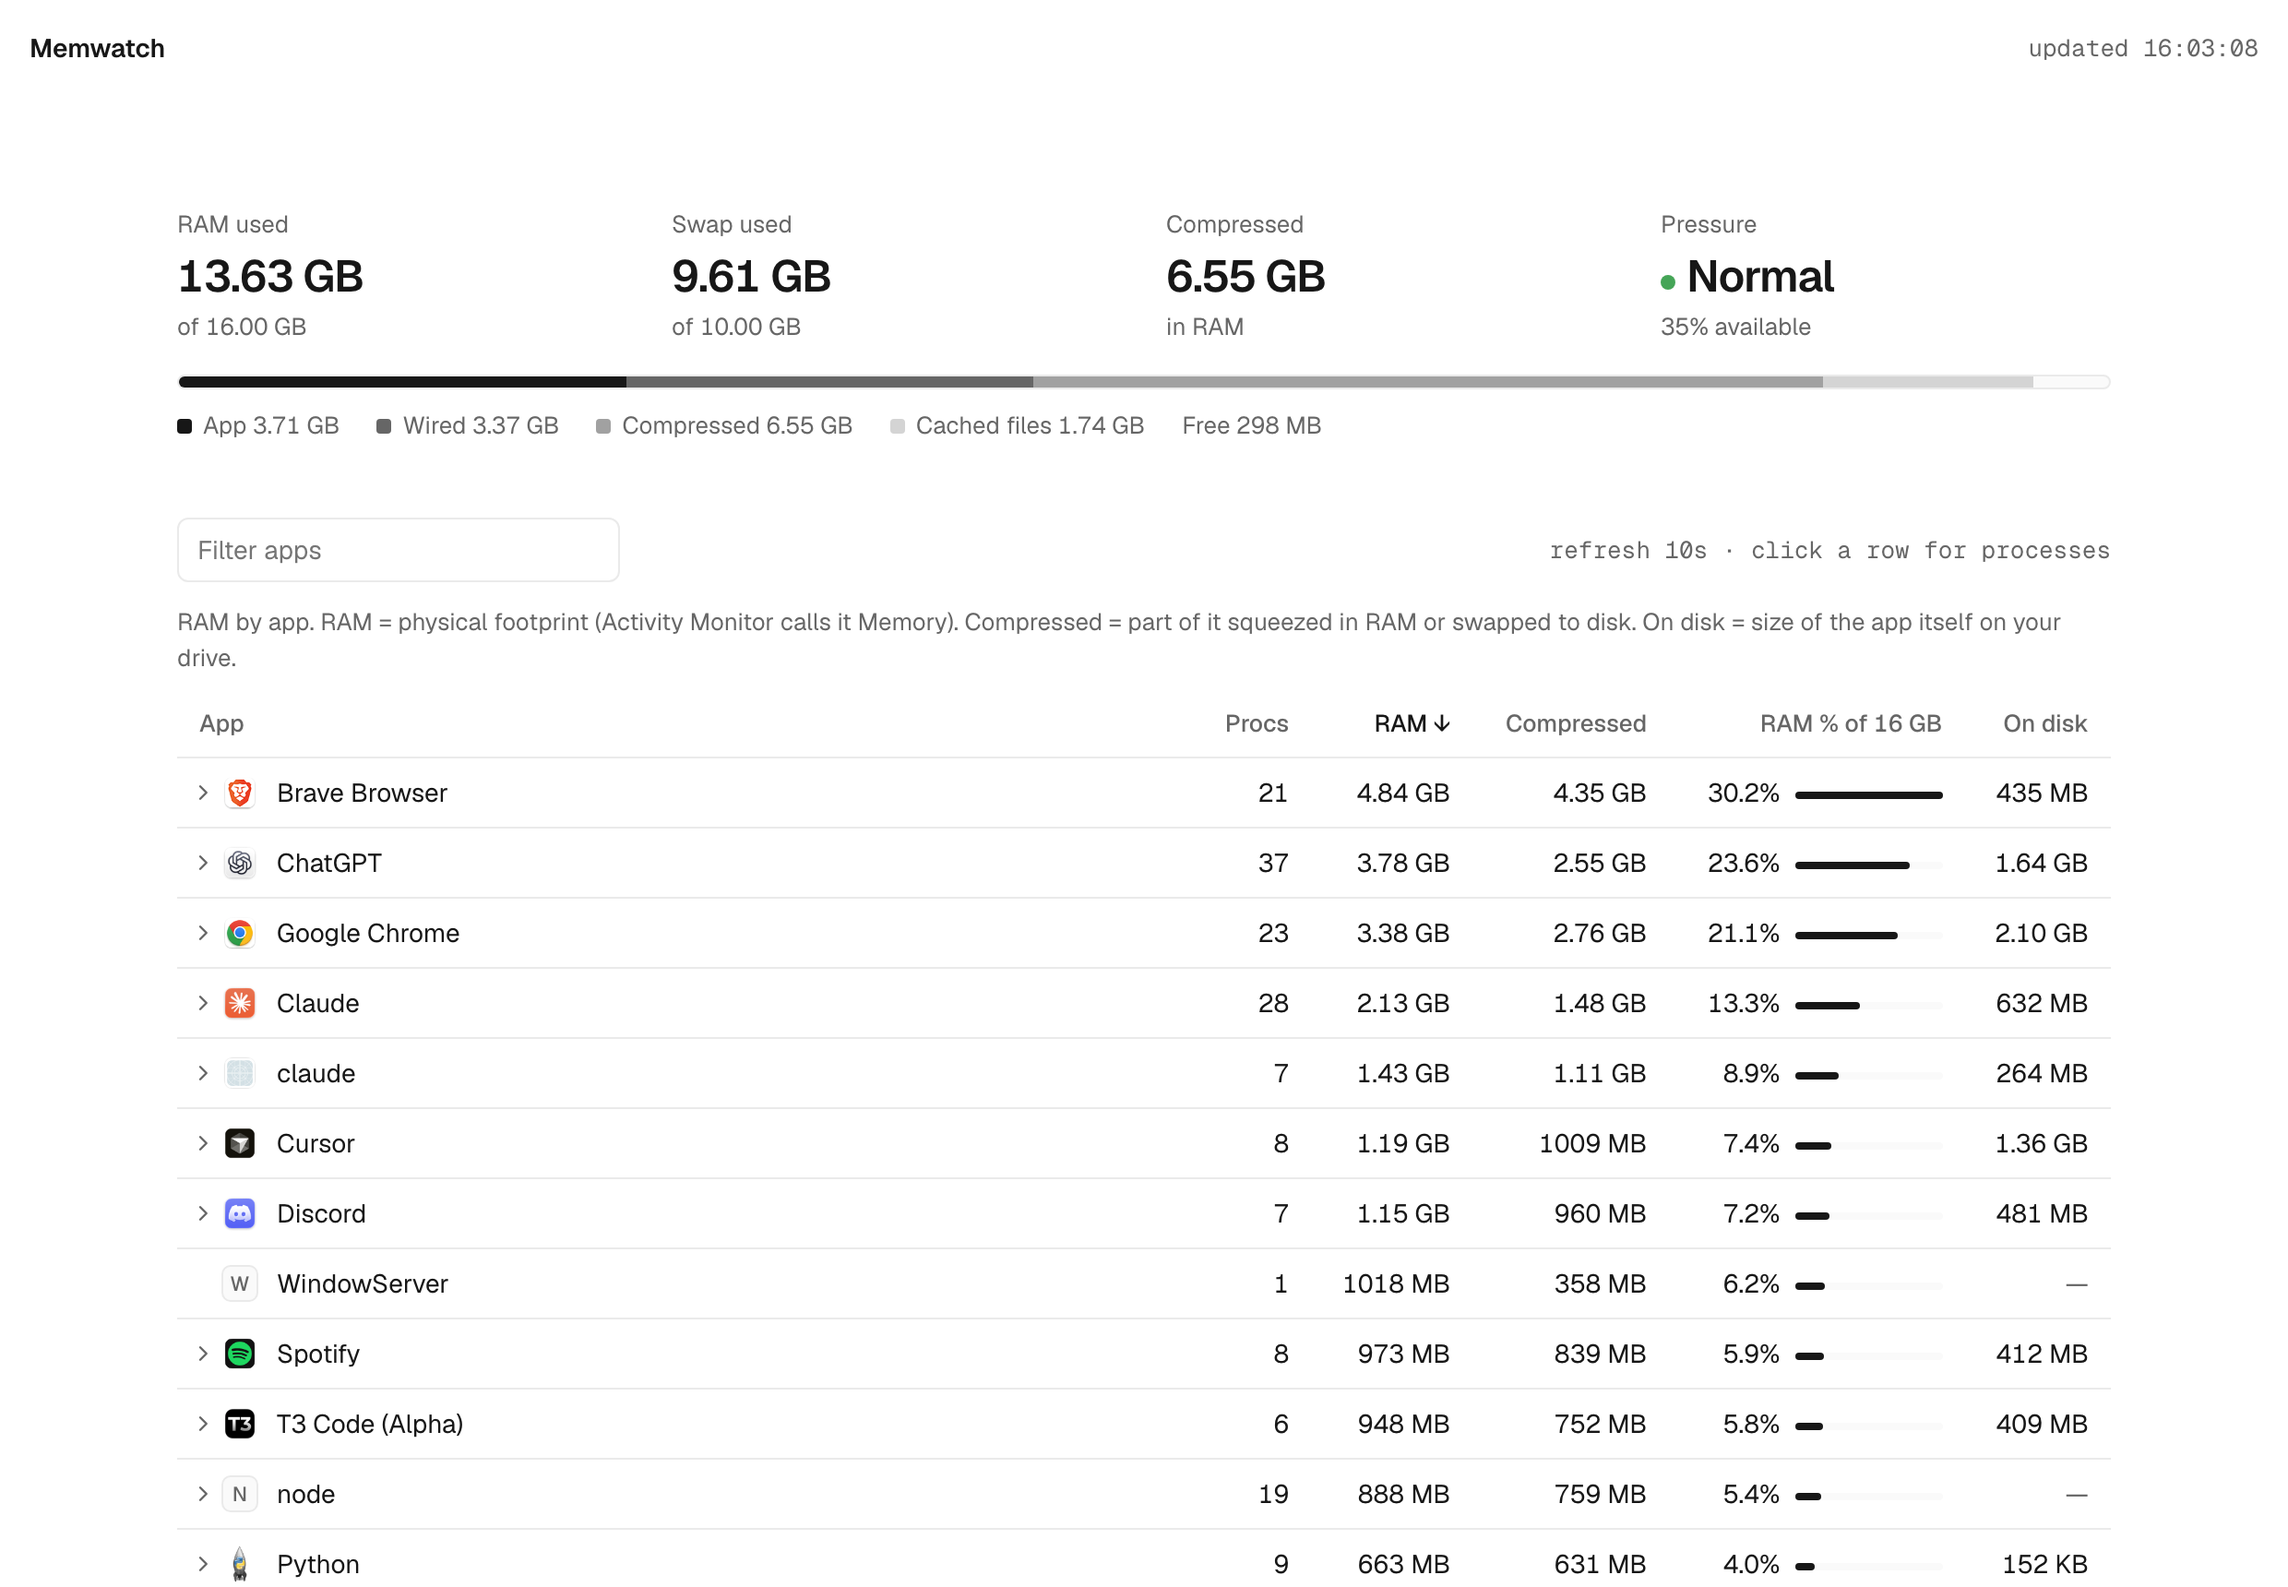
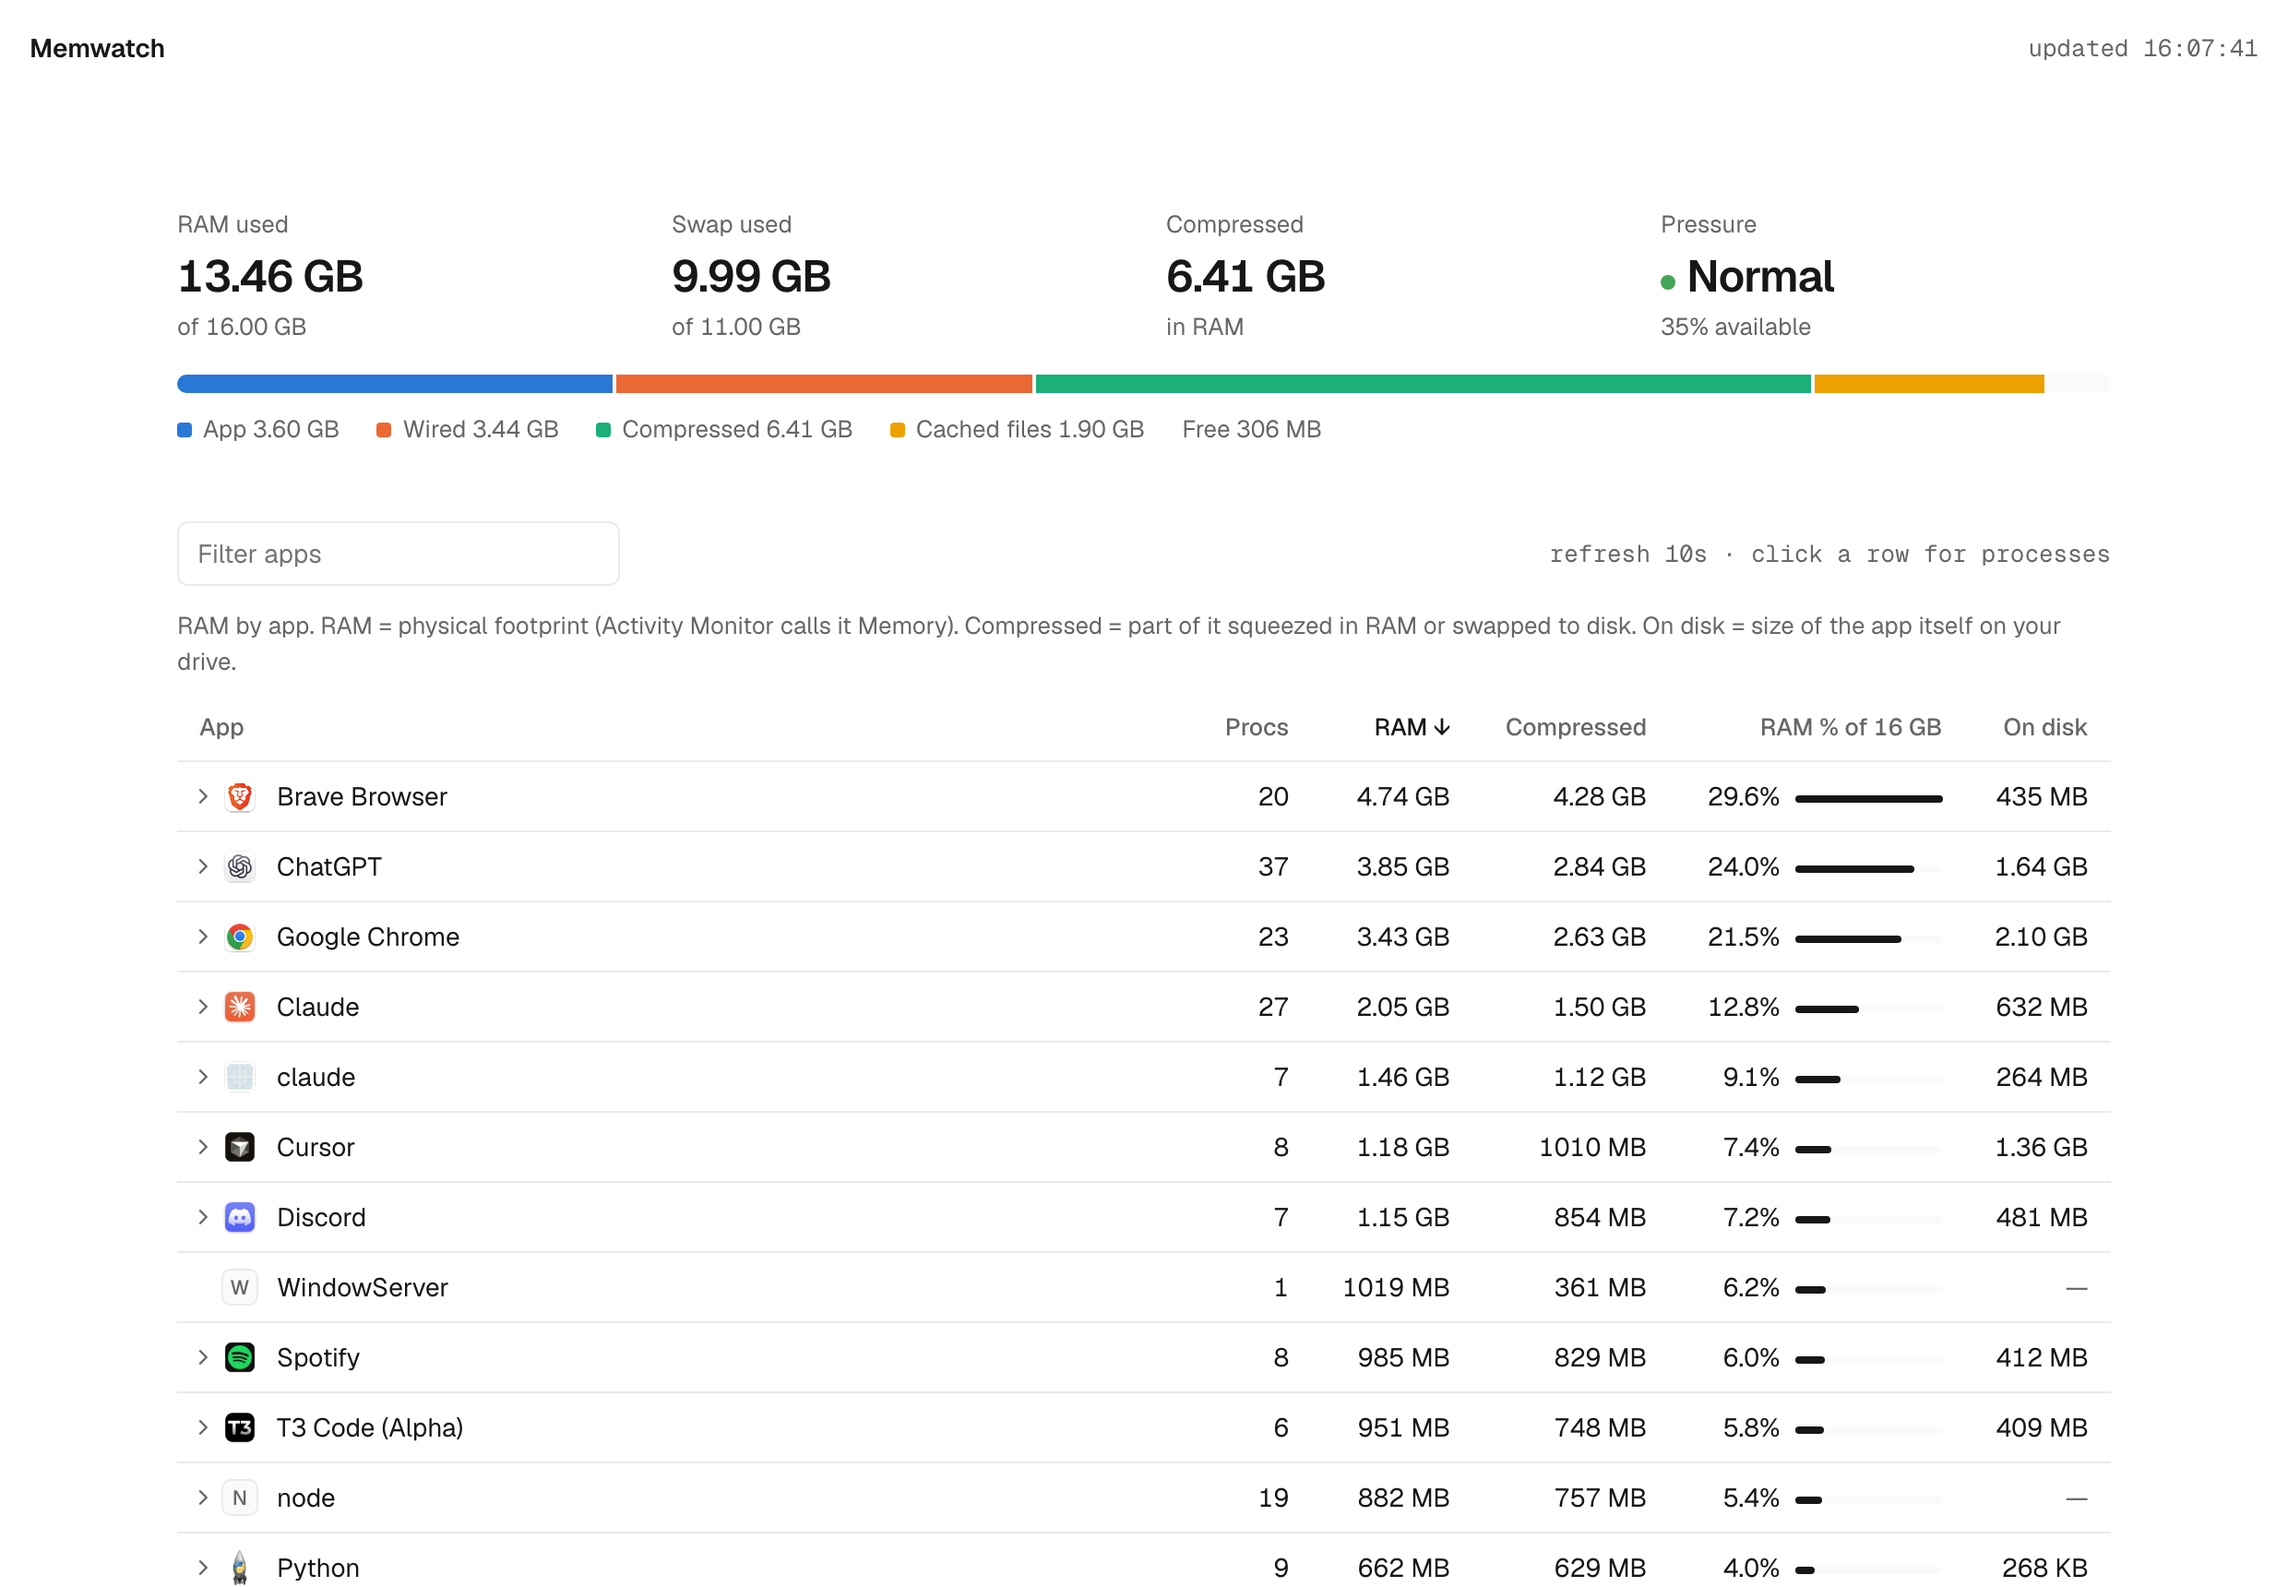
Give the memory breakdown bar distinct colors

diff --git a/memwatch.py b/memwatch.py
@@ -164,9 +164,9 @@ PAGE = r"""<!doctype html><html lang="en"><head><meta charset="utf-8">
 <link href="https://fonts.googleapis.com/css2?family=Geist:wght@400..600&family=Geist+Mono:wght@400..600&display=swap" rel="stylesheet">
 <style>
 :root{--bg:#fff;--bg2:#fafafa;--fg:#171717;--fg2:#666;--border:#eaeaea;--strong:#d4d4d4;
-  --seg1:#171717;--seg2:#666;--seg3:#a1a1a1;--seg4:#d4d4d4;--warn:#f5a623;--err:#e5484d;--ok:#45a557;--sk:#ededed}
+  --seg1:#2a78d6;--seg2:#eb6834;--seg3:#1baf7a;--seg4:#eda100;--warn:#f5a623;--err:#e5484d;--ok:#45a557;--sk:#ededed}
 @media (prefers-color-scheme:dark){:root{--bg:#0a0a0a;--bg2:#111;--fg:#ededed;--fg2:#a1a1a1;--border:#242424;--strong:#3a3a3a;
-  --seg1:#ededed;--seg2:#a1a1a1;--seg3:#666;--seg4:#333;--sk:#1f1f1f}}
+  --seg1:#3987e5;--seg2:#d95926;--seg3:#199e70;--seg4:#c98500;--sk:#1f1f1f}}
 *{box-sizing:border-box;margin:0}
 /* thin floating scrollbar: no track, thumb inset by a bg-colored border */
 ::-webkit-scrollbar{width:12px;height:12px;background:transparent}
@@ -203,7 +203,9 @@ h1{font-size:14px;font-weight:600}
 .kpi .v{font-size:24px;font-weight:600;letter-spacing:-.02em;font-variant-numeric:tabular-nums}
 .kpi .s{color:var(--fg2);font-size:13px;font-variant-numeric:tabular-nums}
 .dot{display:inline-block;width:8px;height:8px;border-radius:50%;margin-right:6px;vertical-align:1px}
-.bar{display:flex;height:8px;border-radius:4px;overflow:hidden;background:var(--bg2);border:1px solid var(--border)}
+/* categorical slots 1-4 in fixed order (validated light+dark); 2px surface gap between segments */
+.bar{display:flex;gap:2px;height:10px;border-radius:5px;overflow:hidden;background:var(--bg2)}
+.bar span{min-width:0}
 .legend{display:flex;flex-wrap:wrap;gap:4px 20px;margin:10px 0 40px;font-size:13px;color:var(--fg2);font-variant-numeric:tabular-nums}
 .legend i{display:inline-block;width:8px;height:8px;border-radius:2px;margin-right:6px}
 .tools{display:flex;justify-content:space-between;align-items:center;gap:12px;margin-bottom:12px}
@@ -290,7 +292,7 @@ function render(){
     ['Pressure',`<span class="dot" style="background:${pc}"></span>${pl}`,p+'% available'],
   ].map(([l,v,x])=>`<div class="kpi"><div class="l">${l}</div><div class="v">${v}</div><div class="s">${x}</div></div>`).join('');
   const seg=[['App',s.app,'--seg1'],['Wired',s.wired,'--seg2'],['Compressed',s.compressed,'--seg3'],['Cached files',s.cached,'--seg4']];
-  $('bar').innerHTML=seg.map(([,v,c])=>`<span style="width:${v/s.total*100}%;background:var(${c})"></span>`).join('');
+  $('bar').innerHTML=seg.map(([l,v,c])=>`<span title="${l} ${fmt(v)}" style="width:${v/s.total*100}%;background:var(${c})"></span>`).join('');
   $('bar').setAttribute('aria-label',seg.map(([l,v])=>l+' '+fmt(v)).join(', '));
   $('legend').innerHTML=seg.map(([l,v,c])=>`<span><i style="background:var(${c})"></i>${l} ${fmt(v)}</span>`).join('')+`<span>Free ${fmt(s.free)}</span>`;
   const q=$('q').value.toLowerCase();
